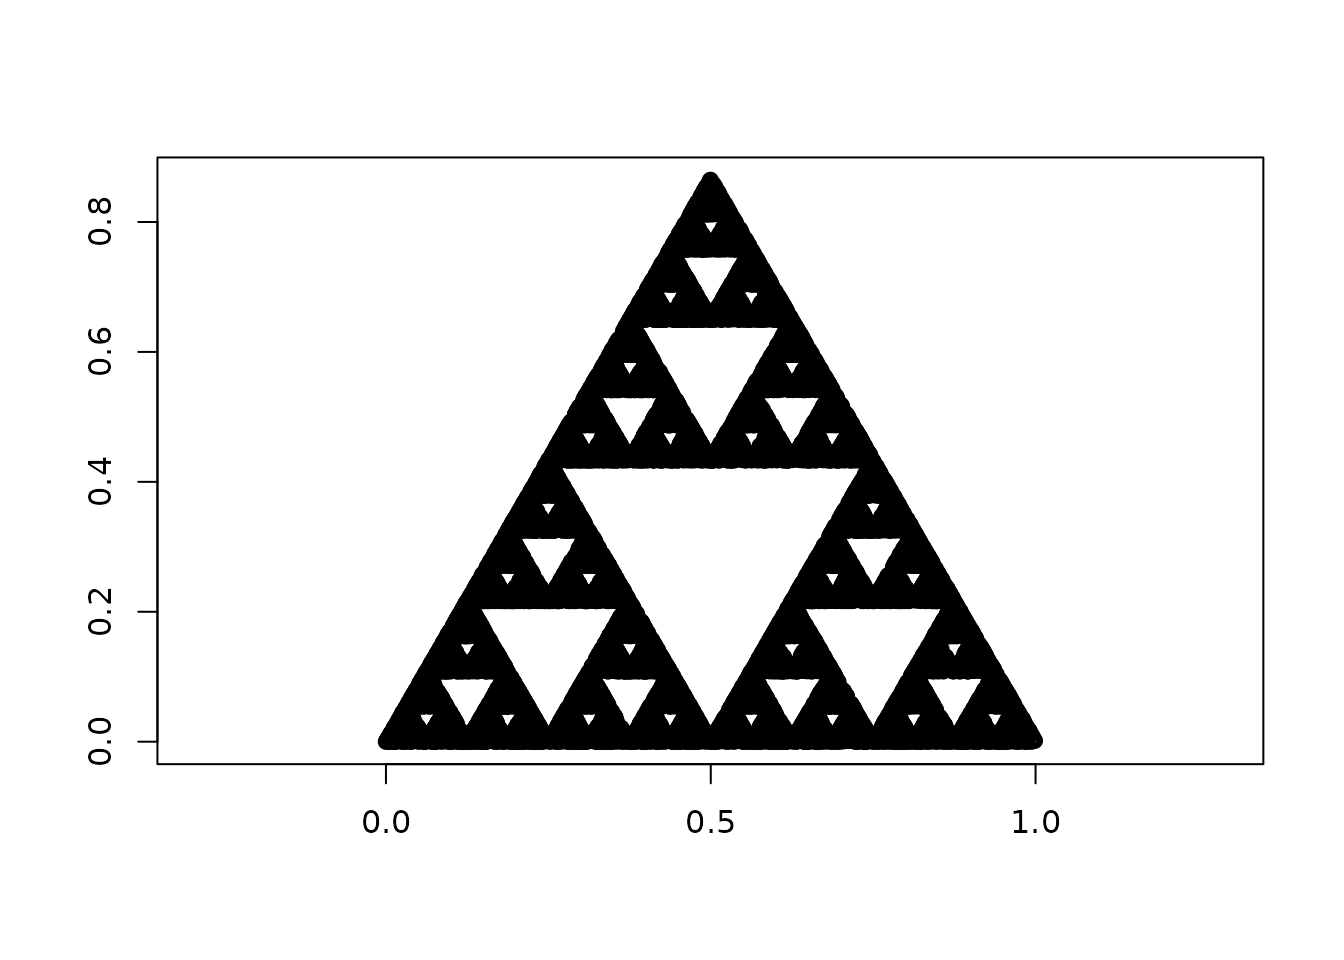
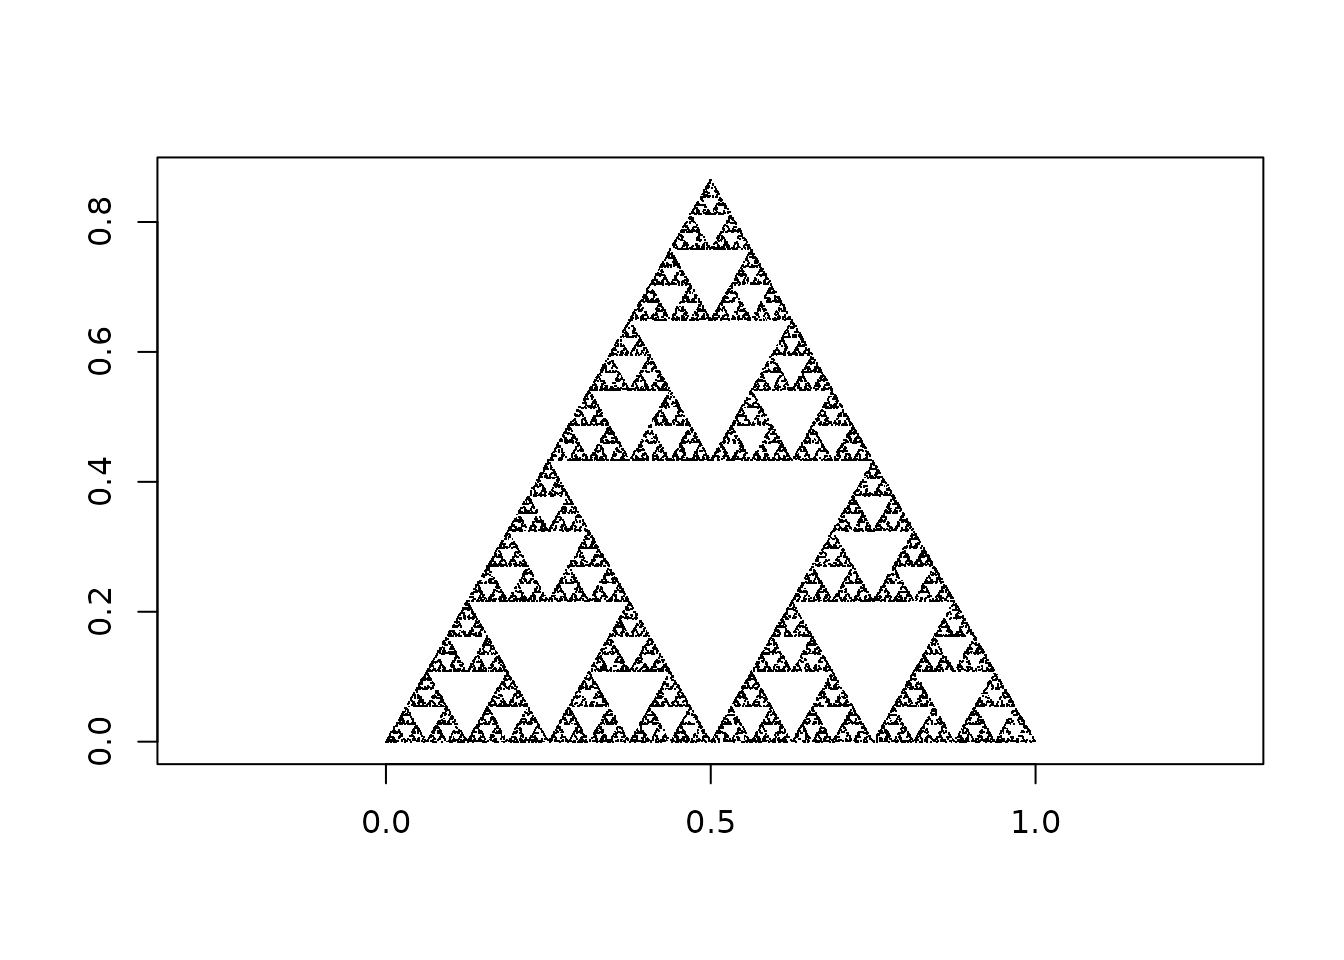
Deploying to gh-pages from @ pramitghosh/sameSVD@37242f7ee61487ac6a8e3ae9e010817c6e3095bf 🚀

Changed region(s): [[0.2812, 0.1875, 0.7812, 0.7812]]

diff --git a/articles/points.html b/articles/points.html
@@ -73,7 +73,7 @@
                         <h4 data-toc-skip class="author">Pramit
 Ghosh</h4>
             
-            <h4 data-toc-skip class="date">2024-05-05</h4>
+            <h4 data-toc-skip class="date">2024-05-09</h4>
       
       <small class="dont-index">Source: <a href="https://github.com/pramitghosh/sameSVD/blob/HEAD/vignettes/points.Rmd" class="external-link"><code>vignettes/points.Rmd</code></a></small>
       <div class="d-none name"><code>points.Rmd</code></div>
@@ -201,7 +201,7 @@ BY-SA 4.0</a>,
 <span><span class="co">#&gt; Projected CRS: WGS 84 / Pseudo-Mercator</span></span>
 <span><span class="co">#&gt;   st_sfc.st_multipoint.sierpinski_pts...crs...3857.</span></span>
 <span><span class="co">#&gt; 1                    MULTIPOINT ((0 0), (0.25 0....</span></span>
-<span><span class="fu"><a href="https://rdrr.io/r/graphics/plot.default.html" class="external-link">plot</a></span><span class="op">(</span><span class="va">sierpinski_sf</span>, axes <span class="op">=</span> <span class="cn">TRUE</span><span class="op">)</span></span></code></pre></div>
+<span><span class="fu"><a href="https://rdrr.io/r/graphics/plot.default.html" class="external-link">plot</a></span><span class="op">(</span><span class="va">sierpinski_sf</span>, pch <span class="op">=</span> <span class="st">'.'</span>, axes <span class="op">=</span> <span class="cn">TRUE</span><span class="op">)</span></span></code></pre></div>
 <p><img src="points_files/figure-html/unnamed-chunk-8-1.png" width="672"></p>
 <p>The Box-Counting Dimension of this figure is calculated using
 <code><a href="../reference/bcd.html">bcd()</a></code> as illustrated below.</p>
@@ -217,6 +217,96 @@ BY-SA 4.0</a>,
 <p>The regression gives a Box-Counting dimension of ~1.59 which is very
 close to the theoretical value.</p>
 </div>
+</div>
+<div class="section level3">
+<h3 id="other-fractals">Other Fractals<a class="anchor" aria-label="anchor" href="#other-fractals"></a>
+</h3>
+<div class="section level4">
+<h4 id="barnsley-fern">Barnsley fern<a class="anchor" aria-label="anchor" href="#barnsley-fern"></a>
+</h4>
+<p>Barnsley fern is a well-known fractal that was first described by a
+British mathematician, Michael Barnsley, in 1993. A Barnsley fern is
+constructed mathematically using a Iterated function system (IFS), a
+common method to generate fractals.</p>
+<p>In an IFS, a fractal is constructed iteratively as the union of
+several copies of itself. Before performing the union of the set,
+self-affine transformations are often applied to the component copies by
+a function system with finite number of contraction mappings. Formally,
+the IFS is usually expressed using a Hutchinson operator. Let <span class="math inline">\(\{f_i\colon X\to X\mid1\le i\le N\}\)</span> be an
+IFS - i.e. a set of contractions on set <span class="math inline">\(X\)</span> to itself. Then the operator <span class="math inline">\(H\)</span> is defined over subsets <span class="math inline">\(S\subset X\)</span> as <span class="math display">\[H(S)=\bigcup\limits_{i=1}^{N}f_i(S)\]</span>.</p>
+</div>
+<div class="section level4">
+<h4 id="generating-the-fern-programmatically">Generating the fern programmatically<a class="anchor" aria-label="anchor" href="#generating-the-fern-programmatically"></a>
+</h4>
+<p>The finite set of affine transformations are applied stochastically
+depending on its influence on the generation of the fern.</p>
+<div class="sourceCode" id="cb12"><pre class="downlit sourceCode r">
+<code class="sourceCode R"><span><span class="va">barnsley_ifs</span> <span class="op">=</span> <span class="kw">function</span><span class="op">(</span><span class="va">x</span>, <span class="va">y</span><span class="op">)</span></span>
+<span><span class="op">{</span></span>
+<span>  <span class="va">xn</span> <span class="op">=</span> <span class="fl">0</span></span>
+<span>  <span class="va">yn</span> <span class="op">=</span> <span class="fl">0</span></span>
+<span>  </span>
+<span>  <span class="va">r</span> <span class="op">=</span> <span class="fu"><a href="https://rdrr.io/r/stats/Uniform.html" class="external-link">runif</a></span><span class="op">(</span><span class="fl">1</span><span class="op">)</span></span>
+<span>  </span>
+<span>  <span class="kw">if</span><span class="op">(</span><span class="va">r</span> <span class="op">&lt;</span> <span class="fl">0.01</span><span class="op">)</span></span>
+<span>  <span class="op">{</span></span>
+<span>    <span class="va">xn</span> <span class="op">=</span> <span class="fl">0.0</span></span>
+<span>    <span class="va">yn</span> <span class="op">=</span> <span class="fl">0.16</span> <span class="op">*</span> <span class="va">y</span></span>
+<span>  <span class="op">}</span> <span class="kw">else</span></span>
+<span>    <span class="kw">if</span><span class="op">(</span><span class="va">r</span> <span class="op">&lt;</span> <span class="fl">0.86</span><span class="op">)</span></span>
+<span>    <span class="op">{</span></span>
+<span>      <span class="va">xn</span> <span class="op">=</span> <span class="fl">0.85</span> <span class="op">*</span> <span class="va">x</span> <span class="op">+</span> <span class="fl">0.04</span> <span class="op">*</span> <span class="va">y</span></span>
+<span>      <span class="va">yn</span> <span class="op">=</span> <span class="op">-</span><span class="fl">0.04</span> <span class="op">*</span> <span class="va">x</span> <span class="op">+</span> <span class="fl">0.85</span> <span class="op">*</span> <span class="va">y</span> <span class="op">+</span> <span class="fl">1.6</span></span>
+<span>    <span class="op">}</span> <span class="kw">else</span></span>
+<span>      <span class="kw">if</span><span class="op">(</span><span class="va">r</span> <span class="op">&lt;</span> <span class="fl">0.93</span><span class="op">)</span></span>
+<span>      <span class="op">{</span></span>
+<span>        <span class="va">xn</span> <span class="op">=</span> <span class="fl">0.2</span> <span class="op">*</span> <span class="va">x</span> <span class="op">-</span> <span class="fl">0.26</span> <span class="op">*</span> <span class="va">y</span></span>
+<span>        <span class="va">yn</span> <span class="op">=</span> <span class="fl">0.23</span> <span class="op">*</span> <span class="va">x</span> <span class="op">+</span> <span class="fl">0.22</span> <span class="op">*</span> <span class="va">y</span> <span class="op">+</span> <span class="fl">1.6</span></span>
+<span>      <span class="op">}</span> <span class="kw">else</span></span>
+<span>      <span class="op">{</span></span>
+<span>        <span class="va">xn</span> <span class="op">=</span> <span class="op">-</span><span class="fl">0.15</span> <span class="op">*</span> <span class="va">x</span> <span class="op">+</span> <span class="fl">0.28</span> <span class="op">*</span> <span class="va">y</span></span>
+<span>        <span class="va">yn</span> <span class="op">=</span> <span class="fl">0.26</span> <span class="op">*</span> <span class="va">x</span> <span class="op">+</span> <span class="fl">0.24</span> <span class="op">*</span> <span class="va">y</span> <span class="op">+</span> <span class="fl">0.44</span></span>
+<span>      <span class="op">}</span></span>
+<span>  </span>
+<span>  <span class="kw"><a href="https://rdrr.io/r/base/function.html" class="external-link">return</a></span><span class="op">(</span><span class="fu"><a href="https://rdrr.io/r/base/c.html" class="external-link">c</a></span><span class="op">(</span><span class="va">xn</span>, <span class="va">yn</span><span class="op">)</span><span class="op">)</span></span>
+<span><span class="op">}</span></span>
+<span></span>
+<span><span class="va">max_iterations</span> <span class="op">=</span> <span class="fl">20000</span></span>
+<span><span class="va">fern</span> <span class="op">=</span> <span class="fu"><a href="https://rdrr.io/r/base/list.html" class="external-link">list</a></span><span class="op">(</span><span class="op">)</span></span>
+<span><span class="va">fern</span><span class="op">[[</span><span class="fl">1</span><span class="op">]</span><span class="op">]</span> <span class="op">=</span> <span class="fu"><a href="https://rdrr.io/r/base/c.html" class="external-link">c</a></span><span class="op">(</span><span class="fl">0</span>, <span class="fl">0</span><span class="op">)</span></span>
+<span></span>
+<span><span class="kw">for</span><span class="op">(</span><span class="va">i</span> <span class="kw">in</span> <span class="fl">1</span><span class="op">:</span><span class="va">max_iterations</span><span class="op">)</span></span>
+<span><span class="op">{</span></span>
+<span>  <span class="va">fern</span><span class="op">[[</span><span class="va">i</span><span class="op">+</span><span class="fl">1</span><span class="op">]</span><span class="op">]</span> <span class="op">=</span> <span class="fu">barnsley_ifs</span><span class="op">(</span><span class="va">fern</span><span class="op">[[</span><span class="va">i</span><span class="op">]</span><span class="op">]</span><span class="op">[</span><span class="fl">1</span><span class="op">]</span>, <span class="va">fern</span><span class="op">[[</span><span class="va">i</span><span class="op">]</span><span class="op">]</span><span class="op">[</span><span class="fl">2</span><span class="op">]</span><span class="op">)</span></span>
+<span><span class="op">}</span></span>
+<span></span>
+<span><span class="va">fern_pts</span> <span class="op">=</span> <span class="fu"><a href="https://rdrr.io/r/base/matrix.html" class="external-link">matrix</a></span><span class="op">(</span><span class="fu"><a href="https://rdrr.io/r/base/unlist.html" class="external-link">unlist</a></span><span class="op">(</span><span class="va">fern</span><span class="op">)</span>, ncol <span class="op">=</span> <span class="fl">2</span>, byrow <span class="op">=</span> <span class="cn">TRUE</span><span class="op">)</span></span>
+<span><span class="op">(</span><span class="va">fern_sf</span> <span class="op">=</span> <span class="fu"><a href="https://r-spatial.github.io/sf/reference/sf.html" class="external-link">st_sf</a></span><span class="op">(</span><span class="fu"><a href="https://r-spatial.github.io/sf/reference/sfc.html" class="external-link">st_sfc</a></span><span class="op">(</span><span class="fu"><a href="https://r-spatial.github.io/sf/reference/st.html" class="external-link">st_multipoint</a></span><span class="op">(</span><span class="va">fern_pts</span><span class="op">)</span>, crs <span class="op">=</span> <span class="fl">3857</span><span class="op">)</span><span class="op">)</span><span class="op">)</span></span>
+<span><span class="co">#&gt; Simple feature collection with 1 feature and 0 fields</span></span>
+<span><span class="co">#&gt; Geometry type: MULTIPOINT</span></span>
+<span><span class="co">#&gt; Dimension:     XY</span></span>
+<span><span class="co">#&gt; Bounding box:  xmin: -2.181518 ymin: 0 xmax: 2.652911 ymax: 9.998063</span></span>
+<span><span class="co">#&gt; Projected CRS: WGS 84 / Pseudo-Mercator</span></span>
+<span><span class="co">#&gt;   st_sfc.st_multipoint.fern_pts...crs...3857.</span></span>
+<span><span class="co">#&gt; 1              MULTIPOINT ((0 0), (0 1.6),...</span></span>
+<span><span class="fu"><a href="https://rdrr.io/r/graphics/plot.default.html" class="external-link">plot</a></span><span class="op">(</span><span class="va">fern_sf</span>, pch <span class="op">=</span> <span class="st">'.'</span>, axes <span class="op">=</span> <span class="cn">TRUE</span>, col <span class="op">=</span> <span class="st">"forestgreen"</span><span class="op">)</span></span></code></pre></div>
+<p><img src="points_files/figure-html/unnamed-chunk-10-1.png" width="700"></p>
+</div>
+</div>
+<div class="section level3">
+<h3 id="computing-the-fractal-dimension">Computing the fractal dimension<a class="anchor" aria-label="anchor" href="#computing-the-fractal-dimension"></a>
+</h3>
+<p>The fractal dimension is calculated for the self-affine Barnsley fern
+using <code><a href="../reference/bcd.html">bcd.self_affinity()</a></code>.</p>
+<div class="sourceCode" id="cb13"><pre class="downlit sourceCode r">
+<code class="sourceCode R"><span><span class="fu"><a href="../reference/bcd.html">bcd</a></span><span class="op">(</span><span class="va">fern_sf</span>, <span class="fu"><a href="https://rdrr.io/r/base/seq.html" class="external-link">seq</a></span><span class="op">(</span><span class="fl">0.1</span>, <span class="fl">1</span>, <span class="fl">0.1</span><span class="op">)</span>, plot <span class="op">=</span> <span class="cn">TRUE</span><span class="op">)</span></span>
+<span><span class="co">#&gt; Generating grids...</span></span>
+<span><span class="co">#&gt; Counting intersecting cells...</span></span>
+<span><span class="co">#&gt; Performing simple linear regression to determine Box-Counting dimension...</span></span>
+<span><span class="co">#&gt; Plotting requested...</span></span></code></pre></div>
+<p><img src="points_files/figure-html/unnamed-chunk-11-1.png" width="700"></p>
+<pre><code><span><span class="co">#&gt; Plotting best-fit line...</span></span>
+<span><span class="co">#&gt; [1] 1.761826</span></span></code></pre>
 </div>
 </div>
   </main><aside class="col-md-3"><nav id="toc"><h2>On this page</h2>

diff --git a/articles/using_fdim.html b/articles/using_fdim.html
@@ -73,7 +73,7 @@
                         <h4 data-toc-skip class="author">Pramit
 Ghosh</h4>
             
-            <h4 data-toc-skip class="date">2024-05-05</h4>
+            <h4 data-toc-skip class="date">2024-05-09</h4>
       
       <small class="dont-index">Source: <a href="https://github.com/pramitghosh/sameSVD/blob/HEAD/vignettes/using_fdim.Rmd" class="external-link"><code>vignettes/using_fdim.Rmd</code></a></small>
       <div class="d-none name"><code>using_fdim.Rmd</code></div>
